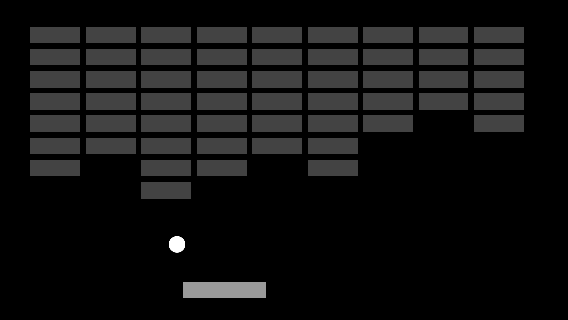
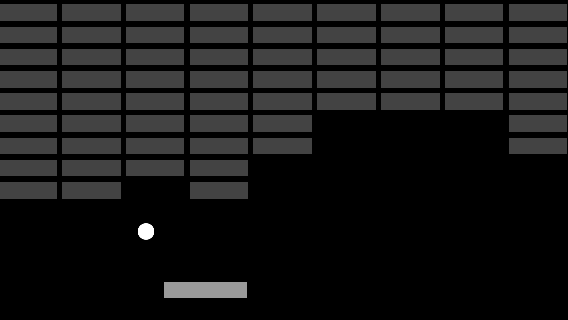
make block grid fill entire screen

diff --git a/Swift-Breakout/GameScene.swift b/Swift-Breakout/GameScene.swift
@@ -35,7 +35,7 @@ class GameScene: SKScene, SKPhysicsContactDelegate {
         addNodes()
     }
     
-    // Setup
+    // Node Setup
     
     func positionNodes() {
         paddle.position = CGPoint(x: CGRectGetMidX(self.frame), y: CGRectGetMinY(self.frame) + (paddle.size.height * 5));
@@ -107,11 +107,21 @@ class GameScene: SKScene, SKPhysicsContactDelegate {
     // Updating Scene
    
     override func update(currentTime: CFTimeInterval) {
-        handleCollisions()
-        updateNodes()
+        // check for ball and block grid collision
+        detectGridCollision()
+        
+        // check for lost ball
+        if ball.position.y < deathThreshold {
+            resetBall()
+        }
+        
+        // end level when all blocks are destroyed
+        if grid.blocks.count == 0 {
+            endLevel()
+        }
     }
     
-    func handleCollisions() {
+    func detectGridCollision() {
         var indexOfCollidedBlock: Int? // optionals are sweeeeeeeet
         
         // look for ball/block collision
@@ -126,18 +136,6 @@ class GameScene: SKScene, SKPhysicsContactDelegate {
         // remove collided block
         if let index = indexOfCollidedBlock {
             grid.blocks.removeAtIndex(index)
-        }
-    }
-    
-    func updateNodes() {
-        // check for lost ball
-        if ball.position.y < deathThreshold {
-            resetBall()
-        }
-        
-        // end level when all blocks are destroyed
-        if grid.blocks.count == 0 {
-            endLevel()
         }
     }
 }

diff --git a/Swift-Breakout/BlockGrid.swift b/Swift-Breakout/BlockGrid.swift
@@ -14,7 +14,7 @@ class BlockGrid {
     var levelNumber = 1
     
     class func GridWithLevel(levelNumber: Int) -> BlockGrid {
-        let grid = BlockGrid(position: CGPoint(x: 0, y: 650), size: CGSizeMake(9, 8))
+        let grid = BlockGrid(position: CGPoint(x: 50, y: 650), size: CGSizeMake(10, 8))
         grid.levelNumber = levelNumber
         return grid
     }
@@ -28,11 +28,11 @@ class BlockGrid {
         let rows = Int(size.height)
         let padding = 10
         
-        for y in 1...rows {
-            for x in 1...columns {
+        for y in 0...rows {
+            for x in 0...columns {
                 var block = Block()
                 block.node = SKSpriteNode(color: UIColor.darkGrayColor(), size:block.size)
-                let positionX = x * (Int(block.size.width) + padding)
+                let positionX = Int(position.x) + x * (Int(block.size.width) + padding)
                 let positionY = Int(position.y) - (y * (Int(block.size.height) + padding))
                 block.node.position = CGPoint(x: positionX, y:  positionY)
                 blocks.append(block)
@@ -46,6 +46,6 @@ struct Block {
     var node: SKNode!
     
     init() {
-        size = CGSize(width: 90, height: 30)
+        size = CGSize(width: 105.6, height: 30)
     }
 }
